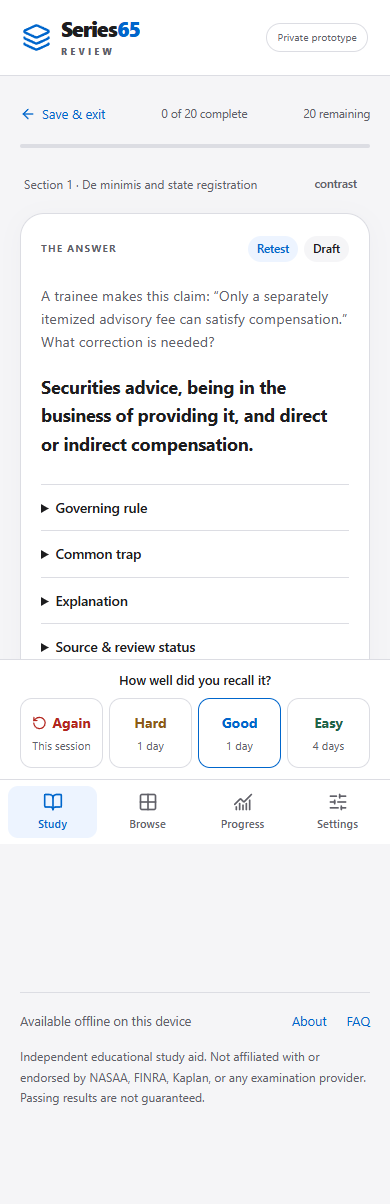
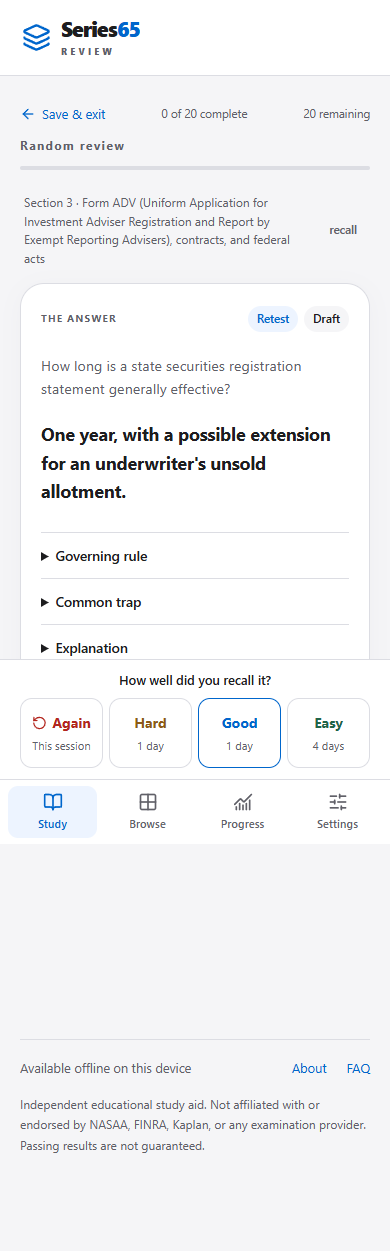
Simplify Study to one area or random selector and move analytics to Progress

diff --git a/tests/e2e/app.spec.ts b/tests/e2e/app.spec.ts
@@ -1,18 +1,18 @@
 import { test,expect,type Page } from '@playwright/test';
 import AxeBuilder from '@axe-core/playwright';
 import { readFile,mkdir } from 'node:fs/promises';
-async function ready(page:Page){await page.goto('/');await expect(page.getByRole('button',{name:'Start a session'})).toBeVisible();}
+async function ready(page:Page){await page.goto('/');await expect(page.getByRole('button',{name:'Start review'})).toBeVisible();}
 async function reveal(page:Page){await page.getByRole('button',{name:'Reveal answer',exact:true}).click();await expect(page.getByRole('heading',{level:1})).toBeVisible();}
 test('review, deliberate relearning, bookmarks, and refresh persistence',async({page})=>{
- await ready(page);await page.getByRole('button',{name:'Start a session'}).click();const question=await page.locator('.question-button>span').innerText();await reveal(page);await page.getByRole('button',{name:'Bookmark card',exact:true}).click();await page.getByRole('button',{name:/^Again/}).click();
+ await ready(page);await page.getByRole('button',{name:'Start review'}).click();const question=await page.locator('.question-button>span').innerText();await reveal(page);await page.getByRole('button',{name:'Bookmark card',exact:true}).click();await page.getByRole('button',{name:/^Again/}).click();
  for(let i=0;i<2;i++){await reveal(page);await page.getByRole('button',{name:/^Good/}).click();}
- await expect(page.locator('.question-button>span')).toHaveText(question);await expect(page.getByRole('button',{name:'Remove bookmark'})).toBeVisible();await reveal(page);await page.getByRole('button',{name:/^Easy/}).click();const next=await page.locator('.question-button>span').innerText();await page.reload();await expect(page.locator('.question-button>span')).toHaveText(next);await page.getByRole('link',{name:'Save & exit'}).click();await expect(page.getByRole('button',{name:'Continue session'})).toBeVisible();
+ await expect(page.locator('.question-button>span')).toHaveText(question);await expect(page.getByRole('button',{name:'Remove bookmark'})).toBeVisible();await reveal(page);await page.getByRole('button',{name:/^Easy/}).click();const next=await page.locator('.question-button>span').innerText();await page.reload();await expect(page.locator('.question-button>span')).toHaveText(next);await page.getByRole('link',{name:'Save & exit'}).click();await expect(page.getByRole('button',{name:'Continue review'})).toBeVisible();
 });
 test('browse filters, bookmark, suspension and issue reporting',async({page})=>{
  await ready(page);await page.getByRole('link',{name:'Browse',exact:true}).click();await page.getByRole('combobox',{name:'Card type',exact:true}).selectOption('calculation');await expect(page.locator('.browse-card').first()).toContainText('calculation');await page.getByRole('combobox',{name:'Section',exact:true}).selectOption('21');await expect(page.locator('.result-count')).toContainText('3 cards found');await page.locator('.browse-card>summary').first().click();await page.getByRole('button',{name:'Bookmark card',exact:true}).first().click();await page.getByLabel('Bookmarked',{exact:true}).check();await expect(page.locator('.result-count')).toContainText('1 cards found');await page.getByRole('button',{name:'Report content issue'}).click();await page.getByLabel('What needs checking?').fill('Please verify the tax assumptions before release.');await page.getByRole('button',{name:'Save issue'}).click();await expect(page.getByRole('status').filter({hasText:'Issue saved'})).toBeVisible();await page.getByRole('button',{name:'Suspend card'}).click();await page.getByRole('combobox',{name:'Due status',exact:true}).selectOption('suspended');await expect(page.locator('.result-count')).toContainText('1 cards found');
 });
 test('settings, export/import, invalid import rejection and reset',async({page})=>{
- await ready(page);await page.getByRole('button',{name:'Start a session'}).click();await reveal(page);await page.getByRole('button',{name:/^Good/}).click();await page.getByRole('link',{name:'Settings',exact:true}).click();await page.getByLabel('New cards per day').fill('8');await page.getByLabel('Appearance').selectOption('dark');await page.getByRole('button',{name:'Save settings'}).click();await expect(page.locator('html')).toHaveAttribute('data-theme','dark');await page.reload();await expect(page.getByLabel('New cards per day')).toHaveValue('8');
+ await ready(page);await page.getByRole('button',{name:'Start review'}).click();await reveal(page);await page.getByRole('button',{name:/^Good/}).click();await page.getByRole('link',{name:'Settings',exact:true}).click();await page.getByLabel('New cards per day').fill('8');await page.getByLabel('Appearance').selectOption('dark');await page.getByRole('button',{name:'Save settings'}).click();await expect(page.locator('html')).toHaveAttribute('data-theme','dark');await page.reload();await expect(page.getByLabel('New cards per day')).toHaveValue('8');
  await page.getByLabel('Import progress file').setInputFiles({name:'bad.json',mimeType:'application/json',buffer:Buffer.from('{"app":"wrong"}')});await expect(page.locator('.inline-error')).toContainText('not a valid');
  const downloadPromise=page.waitForEvent('download');await page.getByRole('button',{name:'Export JSON'}).click();const download=await downloadPromise;const saved=await readFile((await download.path())!);const json=JSON.parse(saved.toString());expect(json.data.events).toHaveLength(1);
  await page.getByRole('button',{name:'Reset all progress & settings'}).click();await page.getByRole('button',{name:'Cancel',exact:true}).click();await expect(page.getByLabel('New cards per day')).toHaveValue('8');await page.getByRole('button',{name:'Reset all progress & settings'}).click();await page.getByRole('button',{name:'Confirm reset'}).click();await expect(page.getByLabel('New cards per day')).toHaveValue('20');await page.getByLabel('Import progress file').setInputFiles({name:'backup.json',mimeType:'application/json',buffer:saved});await page.getByRole('button',{name:'Replace progress'}).click();await expect(page.getByLabel('New cards per day')).toHaveValue('8');await page.getByRole('link',{name:'Progress',exact:true}).click();await expect(page.locator('.progress-stats')).toContainText('100%');
@@ -21,7 +21,7 @@ test('first-load precache permits unvisited routes and saved reviews offline',as
  await ready(page);await expect(page.getByText('Available offline on this device')).toBeVisible();await page.evaluate(async()=>{await navigator.serviceWorker.ready;if(!navigator.serviceWorker.controller)await new Promise<void>(resolve=>navigator.serviceWorker.addEventListener('controllerchange',()=>resolve(),{once:true}));});await context.setOffline(true);await page.goto('/browse/');await expect(page.getByRole('heading',{name:'Find the rule you need.'})).toBeVisible();await page.goto('/review/');await page.getByRole('button',{name:'Start review',exact:true}).click();await reveal(page);await page.getByRole('button',{name:/^Good/}).click();const next=await page.locator('.question-button>span').innerText();await page.reload();await expect(page.locator('.question-button>span')).toHaveText(next);await page.getByRole('link',{name:'Progress',exact:true}).click();await expect(page.locator('.progress-stats')).toContainText('100%');
 });
 test('keyboard review shortcuts work without intercepting form input',async({page})=>{
- await ready(page);await page.getByRole('button',{name:'Start a session'}).click();await page.locator('body').click({position:{x:2,y:150}});await page.keyboard.press('Space');await expect(page.locator('.answer-text')).toBeVisible();await page.keyboard.press('3');await expect(page.locator('.question-button')).toBeVisible();
+ await ready(page);await page.getByRole('button',{name:'Start review'}).click();await page.locator('body').click({position:{x:2,y:150}});await page.keyboard.press('Space');await expect(page.locator('.answer-text')).toBeVisible();await page.keyboard.press('3');await expect(page.locator('.question-button')).toBeVisible();
 });
 test('phone and desktop layouts, dark theme, reduced motion, and accessibility',async({page})=>{
  await mkdir('test-results/visual',{recursive:true});
@@ -31,7 +31,7 @@ test('phone and desktop layouts, dark theme, reduced motion, and accessibility',
   const report=await new AxeBuilder({page}).withTags(['wcag2a','wcag2aa','wcag21aa']).analyze();expect(report.violations).toEqual([]);
   expect(await page.evaluate(()=>document.documentElement.scrollWidth<=innerWidth)).toBe(true);
  }
- await page.getByRole('button',{name:'Start a session'}).click();await page.setViewportSize({width:390,height:844});await page.screenshot({path:'test-results/visual/review-phone.png',fullPage:true});await reveal(page);await page.screenshot({path:'test-results/visual/answer-phone.png',fullPage:true});expect((await new AxeBuilder({page}).withTags(['wcag2a','wcag2aa','wcag21aa']).analyze()).violations).toEqual([]);
+ await page.getByRole('button',{name:'Start review'}).click();await page.setViewportSize({width:390,height:844});await page.screenshot({path:'test-results/visual/review-phone.png',fullPage:true});await reveal(page);await page.screenshot({path:'test-results/visual/answer-phone.png',fullPage:true});expect((await new AxeBuilder({page}).withTags(['wcag2a','wcag2aa','wcag21aa']).analyze()).violations).toEqual([]);
  for(const route of ['/browse/','/settings/','/progress/','/about/','/faq/']){await page.goto(route);await expect(page.locator('h1')).toBeVisible();expect((await new AxeBuilder({page}).withTags(['wcag2a','wcag2aa','wcag21aa']).analyze()).violations).toEqual([]);expect(await page.evaluate(()=>document.documentElement.scrollWidth<=innerWidth)).toBe(true);}
  await page.goto('/settings/');await page.getByLabel('Appearance').selectOption('dark');await page.getByRole('button',{name:'Save settings'}).click();await page.emulateMedia({reducedMotion:'reduce'});await page.goto('/');await expect(page.locator('html')).toHaveAttribute('data-theme','dark');await page.screenshot({path:'test-results/visual/dark-phone.png',fullPage:true});expect((await new AxeBuilder({page}).withTags(['wcag2a','wcag2aa','wcag21aa']).analyze()).violations).toEqual([]);
 });

diff --git a/components/dashboard.tsx b/components/dashboard.tsx
@@ -1,22 +1,37 @@
-'use client';
+'use client';
+import { useState } from 'react';
 import { useRouter } from 'next/navigation';
-import Link from 'next/link';
-import { ArrowRight,Flame,RotateCcw,Check } from 'lucide-react';
 import { useStudy } from './study-provider';
-import { deck,sections } from '@/lib/deck';
 import { categories, type Category } from '@/lib/model';
-import { statistics,currentStreak } from '@/lib/metrics';
-export function Dashboard(){
-  const {data,now,busy,dispatch}=useStudy();const router=useRouter();
-  if(!data)return <div className="page loading" role="status"><h1>Your next study session.</h1><p>Opening your local progress…</p></div>;
-  const stats=statistics(deck,data,now);const retest=statistics(deck.filter(c=>c.retest),data,now);
-  const weak=sections.map(s=>({...s,...statistics(deck.filter(c=>c.section===s.number),data,now)})).filter(s=>s.reviews>0).sort((a,b)=>(a.accuracy??100)-(b.accuracy??100)||b.lapses-a.lapses).slice(0,4);
-  const start=async(retestOnly=false,section?:number)=>{if(await dispatch({type:'start',now:new Date().toISOString(),retestOnly,section}))router.push('/review/');};
-  return <div className="page dashboard"><div className="page-heading"><div><p className="eyebrow">A LITTLE PRACTICE, EVERY DAY</p><h1>Keep the rules clear.</h1><p className="muted">Your focused Series 65 review, one card at a time.</p></div><span className="streak-chip"><Flame aria-hidden="true"/>{currentStreak(data,now)} day streak</span></div>
-    <div className="study-overview"><section className="today-card" aria-labelledby="today-title"><div className="row"><span className="eyebrow" id="today-title">YOUR NEXT SESSION</span><span className="badge blue">Spaced repetition</span></div><div className="due-count">{stats.due}<span>cards due today</span></div><p className="muted">{stats.new} new cards ready when you are.</p><button className="button primary large" disabled={busy} onClick={()=>void start()}>{data.session?.queue.length?'Continue session':'Start a session'}<ArrowRight aria-hidden="true"/></button><p className="micro">Up to {data.settings.sessionLength} cards · {data.settings.dailyNew} new cards per day</p></section>
-    <aside className="session-side"><div className="mini-stat"><span className="icon-wrap"><Check aria-hidden="true"/></span><div><strong>{stats.mature}<span> / {deck.length}</span></strong><p>Mature cards</p><small>Review interval of 21+ days</small></div></div><div className="retest-card"><div className="row"><RotateCcw aria-hidden="true"/><span className="eyebrow">RETEST FOCUS</span></div><h2>{retest.due} due <span>· {retest.new} new</span></h2><p>Practice the distinctions most likely to need another pass.</p><button className="text-button" disabled={busy} onClick={()=>void start(true)}>Review retest cards<ArrowRight aria-hidden="true"/></button></div></aside></div>
-    <section className="section-block"><div className="section-heading"><h2>Your four study areas</h2><Link href="/progress/">View progress<ArrowRight aria-hidden="true"/></Link></div><div className="category-grid">{(Object.keys(categories) as Category[]).map((key,i)=>{const category=categories[key];const s=statistics(deck.filter(c=>c.category===key),data,now);return <Link href={`/browse/?category=${key}`} className={`category-card category-${key}`} key={key}><div className="row"><span className="category-number">0{i+1}</span><span className="muted">{category.weight}% of exam</span></div><h3>{category.title}</h3><div className="meter" role="progressbar" aria-label={`${category.title} mature cards`} aria-valuenow={s.mastery} aria-valuemin={0} aria-valuemax={100}><span style={{width:`${s.mastery}%`}}/></div><div className="row micro"><span>{s.mature} of {s.total} mature</span><strong>{s.mastery}%</strong></div></Link>;})}</div></section>
-    <section className="section-block"><div className="section-heading"><h2>{weak.length?'Worth another look':'Build your baseline'}</h2><span className="muted">{weak.length?'Your weakest reviewed sections':'27 cram-sheet sections'}</span></div><div className="section-list">{weak.length?weak.map(s=><button className="section-row" key={s.number} disabled={busy} onClick={()=>void start(false,s.number)}><span className="section-number">{String(s.number).padStart(2,'0')}</span><span>{s.title}<small>{s.reviews} reviews · {s.accuracy}% recalled</small></span><ArrowRight aria-hidden="true"/></button>):<div className="baseline"><p>Start with a short session. Your missed and difficult cards will guide what comes next.</p><Link href="/browse/" className="button secondary">Explore the deck</Link></div>}</div></section>
-    <p className="draft-note">Content preview · All {deck.length} cards are drafts awaiting human accuracy and provenance review. Study ratings are self-assessments, not an exam score.</p>
+
+export function Dashboard() {
+  const { data, busy, dispatch } = useStudy();
+  const router = useRouter();
+  const [selection, setSelection] = useState<Category | 'random' | null>(null);
+  if (!data) return <div className="page minimal-study" role="status"><h1>Opening your cards…</h1></div>;
+
+  const choice = selection ?? data.session?.category ?? 'random';
+  const canContinue = !!data.session?.queue.length && (data.session.category === choice || (choice === 'random' && data.session.mode === 'random' && !data.session.category));
+  const start = async () => {
+    const timestamp = new Date().toISOString();
+    const command = canContinue ? { type: 'start' as const, now: timestamp }
+      : choice === 'random' ? { type: 'start' as const, now: timestamp, mode: 'random' as const }
+      : { type: 'start' as const, now: timestamp, category: choice };
+    if (await dispatch(command)) router.push('/review/');
+  };
+
+  return <div className="page minimal-study">
+    <section className="study-form" aria-labelledby="study-title">
+      <h1 id="study-title">Let’s review.</h1>
+      <div className="review-choice">
+        <label htmlFor="review-area">Review area</label>
+        <select id="review-area" value={choice} disabled={busy} onChange={event => setSelection(event.target.value as Category | 'random')}>
+          <option value="random">Random</option>
+          {(Object.keys(categories) as Category[]).map(category => <option key={category} value={category}>{categories[category].title}</option>)}
+        </select>
+      </div>
+      <button className="button primary" disabled={busy} onClick={() => void start()}>{canContinue ? 'Continue review' : 'Start review'}</button>
+      <p className="micro muted">Up to {data.settings.sessionLength} cards. Your progress saves automatically.</p>
+    </section>
   </div>;
 }

diff --git a/components/review.tsx b/components/review.tsx
@@ -4,15 +4,16 @@ import Link from 'next/link';
 import { ArrowLeft,CheckCircle2,RotateCcw } from 'lucide-react';
 import { useStudy } from './study-provider';
 import { cardById } from '@/lib/deck';
-import type { Card,Rating } from '@/lib/model';
+import { categories,type Card,type Rating } from '@/lib/model';
 import { freshState,schedule } from '@/lib/scheduler';
 import { AnswerDetails,CardActions } from './card-actions';
+import { Dashboard } from './dashboard';
 const ratings:Rating[]=['again','hard','good','easy'];
 export function Review(){
-  const {data,busy,dispatch}=useStudy();
+  const {data}=useStudy();
   if(!data)return <div className="page loading" role="status">Opening your study session…</div>;
   const session=data.session;const card=session?.queue[0]?cardById.get(session.queue[0]):null;
-  if(!session)return <div className="page narrow empty-state"><h1>Ready for a short session?</h1><p>Due cards come first, followed by new cards within your daily limits.</p><button className="button primary" disabled={busy} onClick={()=>void dispatch({type:'start',now:new Date().toISOString()})}>Start review</button></div>;
+  if(!session)return <Dashboard/>;
   if(!card)return <div className="page narrow empty-state"><CheckCircle2 aria-hidden="true" className="finish-icon"/><p className="eyebrow">{session.ratings?'SESSION COMPLETE':'ALL CAUGHT UP FOR NOW'}</p><h1>{session.ratings?'A little clearer.':'Nothing ready in this session.'}</h1><p>{session.ratings?`${session.completed.length} cards completed · ${session.ratings} reviews saved.`:'Your daily limits may be reached, cards may be suspended, or the next review may be later. You can still browse the full deck.'}</p><div className="button-row"><Link className="button primary" href="/">Back to study</Link><Link className="button secondary" href="/browse/">Browse cards</Link></div></div>;
   return <ReviewCard key={`${session.id}:${session.ratings}:${card.id}`} card={card}/>;
 }
@@ -23,7 +24,7 @@ function ReviewCard({card}:{card:Card}){
   const rate=useCallback(async(rating:Rating)=>{if(!revealed||busy)return;await dispatch({type:'rate',cardId:card.id,sessionId:session.id,expectedRatings:session.ratings,rating,now:new Date().toISOString()});},[revealed,busy,dispatch,card.id,session.id,session.ratings]);
   useEffect(()=>{const handler=(e:KeyboardEvent)=>{const target=e.target as HTMLElement;if(target.closest('input,textarea,select,button,a,summary,dialog'))return;if((e.key===' '||e.key==='Enter')&&!revealed){e.preventDefault();setRevealed(true);}else if(revealed&&['1','2','3','4'].includes(e.key)){e.preventDefault();void rate(ratings[Number(e.key)-1]);}};window.addEventListener('keydown',handler);return()=>window.removeEventListener('keydown',handler);},[revealed,rate]);
   useEffect(()=>{if(revealed)answerRef.current?.focus();},[revealed]);
-  return <div className="page review-page"><div className="review-top"><Link href="/"><ArrowLeft aria-hidden="true"/>Save & exit</Link><span>{session.completed.length} of {session.initialCount} complete</span><span>{session.queue.length} remaining</span></div><div className="meter session-meter" role="progressbar" aria-label="Session completion" aria-valuenow={progress} aria-valuemin={0} aria-valuemax={100}><span style={{width:`${progress}%`}}/></div><div className="review-meta"><span>Section {card.section} · {card.sectionTitle}</span><span className="badge">{card.type}</span></div>
+  return <div className="page review-page"><div className="review-top"><Link href="/"><ArrowLeft aria-hidden="true"/>Save & exit</Link><span>{session.completed.length} of {session.initialCount} complete</span><span>{session.queue.length} remaining</span></div>{(session.mode==='random'||session.category)&&<p className="eyebrow session-mode">{session.mode==='random'?'Random review':categories[session.category!].title}</p>}<div className="meter session-meter" role="progressbar" aria-label="Session completion" aria-valuenow={progress} aria-valuemin={0} aria-valuemax={100}><span style={{width:`${progress}%`}}/></div><div className="review-meta"><span>Section {card.section} · {card.sectionTitle}</span><span className="badge">{card.type}</span></div>
     <section className={`flashcard ${revealed?'revealed':''}`} aria-label="Study card"><div className="flashcard-top"><span className="eyebrow">{revealed?'THE ANSWER':'TAKE A MOMENT TO RECALL'}</span><div>{card.retest&&<span className="badge blue">Retest</span>}<span className="badge">Draft</span></div></div>{!revealed?<button className="question-button" onClick={()=>setRevealed(true)} aria-label={`Reveal answer: ${card.front}`}><span>{card.front}</span><small>Tap to reveal the answer</small></button>:<div className="answer-body"><p className="question-reminder">{card.front}</p><h1 ref={answerRef} tabIndex={-1} className="answer-text">{card.answer}</h1><AnswerDetails card={card}/></div>}<CardActions card={card}/></section>
     <div className="sr-only" role="status" aria-live="polite">{revealed?'Answer revealed. Rate your recall with Again, Hard, Good, or Easy.':`Question ready. ${session.queue.length} cards remaining.`}</div>
     {revealed?<section className="rating-section" aria-label="Rate your recall"><p>How well did you recall it?</p><div className="rating-grid">{ratings.map((rating,i)=>{const next=schedule(data!.states[card.id]||freshState(card.id,now),rating,now);return <button key={rating} className={`rating ${rating}`} disabled={busy} onClick={()=>void rate(rating)}><span>{rating==='again'?<RotateCcw aria-hidden="true"/>:null}{rating[0].toUpperCase()+rating.slice(1)}</span><small>{rating==='again'?'This session':`${next.interval} day${next.interval===1?'':'s'}`}</small><kbd>{i+1}</kbd></button>;})}</div><p className="micro muted">Again repeats this card after up to two others. Ratings are saved immediately.</p></section>:<div className="reveal-area"><button className="button primary" onClick={()=>setRevealed(true)}>Reveal answer<span aria-hidden="true">↵</span></button><p className="micro muted">Keyboard: Space or Enter to reveal · 1–4 to rate</p></div>}

diff --git a/components/progress.tsx b/components/progress.tsx
@@ -4,11 +4,16 @@ import { useStudy } from './study-provider';
 import { deck,sections,cardById } from '@/lib/deck';
 import { statistics,activity,currentStreak } from '@/lib/metrics';
 import { BackupControls } from './backup-controls';
+import { categories, type Category } from '@/lib/model';
 export function Progress(){
   const {data,now}=useStudy();if(!data)return <div className="page" role="status">Opening progress…</div>;
   const stats=statistics(deck,data,now);const days=activity(data,now);const maximum=Math.max(1,...days.map(d=>d.count));
   const hardest=Object.values(data.states).filter(s=>s.lapses>0&&cardById.has(s.cardId)).sort((a,b)=>b.lapses-a.lapses||a.ease-b.ease).slice(0,5);
+  const retest=statistics(deck.filter(c=>c.retest),data,now);
+  const weak=sections.map(s=>({...s,...statistics(deck.filter(c=>c.section===s.number),data,now)})).filter(s=>s.reviews>0).sort((a,b)=>(a.accuracy??100)-(b.accuracy??100)||b.lapses-a.lapses).slice(0,4);
   return <div className="page"><div className="page-heading"><div><p className="eyebrow">EVERY REVIEW COUNTS</p><h1>See what is sticking.</h1><p className="muted">{currentStreak(data,now)} day streak · Activity and daily limits use UTC.</p></div></div><div className="progress-stats">{[{label:'Recalled',value:stats.accuracy===null?'—':`${stats.accuracy}%`},{label:'Reviews',value:stats.reviews},{label:'Mature',value:stats.mature},{label:'Learning',value:stats.learning},{label:'New',value:stats.new},{label:'Lapses',value:stats.lapses}].map(s=><div key={s.label}><strong>{s.value}</strong><span>{s.label}</span></div>)}</div><p className="micro muted metric-explanation">Recalled = Hard, Good, or Easy ratings ÷ all ratings. Mature = review interval of at least 21 days. {stats.suspended} suspended cards are excluded from active learning counts.</p><section className="settings-card"><div className="section-heading"><h2>The last seven days</h2><span className="muted">{days.reduce((sum,d)=>sum+d.count,0)} reviews</span></div><ol className="activity-chart" aria-label="Seven-day review activity">{days.map(d=><li key={d.day}><span className="activity-value">{d.count}</span><div className="activity-bar-area"><span style={{height:`${Math.max(3,d.count/maximum*100)}%`}}/></div><time dateTime={d.day}>{new Date(`${d.day}T12:00:00Z`).toLocaleDateString('en-US',{weekday:'short',timeZone:'UTC'})}</time><span className="sr-only">{d.day}: {d.count} reviews</span></li>)}</ol></section>
+    <section className="section-block"><div className="section-heading"><h2>Study areas</h2><span>{stats.due} due · {retest.due} retest due</span></div><div className="table-wrap"><table><caption className="sr-only">Mastery by study area</caption><thead><tr><th scope="col">Area</th><th scope="col">Mastery</th><th scope="col">Mature</th></tr></thead><tbody>{(Object.keys(categories) as Category[]).map(category=>{const s=statistics(deck.filter(c=>c.category===category),data,now);return <tr key={category}><th scope="row"><Link href={`/browse/?category=${category}`}>{categories[category].title}</Link></th><td>{s.mastery}%</td><td>{s.mature}/{s.total}</td></tr>;})}</tbody></table></div></section>
+    {weak.length>0&&<section className="section-block"><h2 className="spaced-heading">Weakest sections</h2><div className="section-list">{weak.map(s=><Link key={s.number} href={`/browse/?section=${s.number}`} className="section-row"><span>{s.title}<small>{s.accuracy}% recalled · {s.reviews} reviews</small></span></Link>)}</div></section>}
     <section className="section-block"><div className="section-heading"><h2>Section by section</h2><span className="muted">Self-rated recall</span></div><div className="table-wrap"><table><caption className="sr-only">Review accuracy and counts for every cram-sheet section</caption><thead><tr><th scope="col">Section</th><th scope="col">Recalled</th><th scope="col">Reviews</th><th scope="col">Mature</th></tr></thead><tbody>{sections.map(section=>{const s=statistics(deck.filter(c=>c.section===section.number),data,now);return <tr key={section.number}><th scope="row"><Link href={`/browse/?section=${section.number}`}>{section.number}. {section.title}</Link></th><td>{s.accuracy===null?'—':`${s.accuracy}%`}</td><td>{s.reviews}</td><td>{s.mature}/{s.total}</td></tr>;})}</tbody></table></div></section>
     <section className="section-block"><h2 className="spaced-heading">Hardest cards</h2><div className="section-list">{hardest.length?hardest.map(s=><div className="section-row" key={s.cardId}><span className="section-number">{s.lapses} lapses</span><span>{cardById.get(s.cardId)!.front}<small>{s.totalReviews} reviews · ease {s.ease.toFixed(2)}</small></span></div>):<p className="baseline muted">No recorded lapses yet. Cards you miss after their first review will appear here.</p>}</div></section><BackupControls/>
   </div>;

diff --git a/lib/engine.ts b/lib/engine.ts
@@ -1,24 +1,29 @@
-import type { Card, Rating, Settings, Snapshot, Session } from './model';
+import type { Card, Category, Rating, Settings, Snapshot, Session } from './model';
 import { emptySnapshot } from './model';
 import { freshState, isDue, schedule, utcDay } from './scheduler';
+import { shuffled } from './shuffle';
 export type Command =
-  | {type:'start'; now:string; section?:number; retestOnly?:boolean}
+  | {type:'start'; now:string; section?:number; retestOnly?:boolean; mode?:'random'; category?:Category}
   | {type:'rate'; cardId:string; rating:Rating; now:string; sessionId:string; expectedRatings?:number}
   | {type:'flag'; cardId:string; flag:'bookmarked'|'suspended'; value:boolean; now:string}
   | {type:'settings'; settings:Settings}
   | {type:'issue'; cardId:string; text:string; now:string}
   | {type:'reset'; scope:'deck'|'all'}
   | {type:'import'; data:Snapshot};
-export function makeSession(cards: Card[], state: Snapshot, now: Date, section?:number, retestOnly=false): Session {
+export function makeSession(cards: Card[], state: Snapshot, now: Date, section?:number, retestOnly=false, mode:'scheduled'|'random'='scheduled', category?:Category): Session {
   const today = state.events.filter(e=>utcDay(e.at)===utcDay(now));
   const newUsed = new Set(today.filter(e=>e.wasNew).map(e=>e.cardId)).size;
   const reviewUsed = new Set(today.filter(e=>!e.wasNew).map(e=>e.cardId)).size;
-  const available = cards.filter(c=>(!section || c.section===section) && (!retestOnly || c.retest) && !state.states[c.id]?.suspended);
+  const available = cards.filter(c=>(!section || c.section===section) && (!category || c.category===category) && (!retestOnly || c.retest) && !state.states[c.id]?.suspended);
   const rank = (a:Card,b:Card) => Number(b.retest)-Number(a.retest) || ({high:0,medium:1,low:2}[a.priority]-{high:0,medium:1,low:2}[b.priority]) || a.id.localeCompare(b.id);
   const due = available.filter(c=>isDue(state.states[c.id],now)).sort((a,b)=>Number(state.states[b.id].stage==='learning')-Number(state.states[a.id].stage==='learning') || state.states[b.id].lapses-state.states[a.id].lapses || rank(a,b));
   const fresh = available.filter(c=>!state.states[c.id]?.totalReviews).sort(rank);
-  const queue = [...due.slice(0,Math.max(0,state.settings.dailyReviews-reviewUsed)),...fresh.slice(0,Math.max(0,state.settings.dailyNew-newUsed))].slice(0,state.settings.sessionLength).map(c=>c.id);
-  return {id:now.toISOString(), startedAt:now.toISOString(), queue, completed:[], initialCount:queue.length, ratings:0};
+  const seed=(now.getTime() ^ state.revision) >>> 0;
+  const duePool=mode==='random'?shuffled(due,seed):due;
+  const newPool=mode==='random'?shuffled(fresh,seed+1):fresh;
+  const candidates=[...duePool.slice(0,Math.max(0,state.settings.dailyReviews-reviewUsed)),...newPool.slice(0,Math.max(0,state.settings.dailyNew-newUsed))];
+  const queue=(mode==='random'?shuffled(candidates,seed+2):candidates).slice(0,state.settings.sessionLength).map(c=>c.id);
+  return {id:now.toISOString(), mode, ...(category?{category}:{}), startedAt:now.toISOString(), queue, completed:[], initialCount:queue.length, ratings:0};
 }
 export function reduceSnapshot(state: Snapshot, command: Command, cards: Card[]): Snapshot {
   let next: Snapshot = {...state, states:{...state.states}};
@@ -26,8 +31,8 @@ export function reduceSnapshot(state: Snapshot, command: Command, cards: Card[])
   else if(command.type==='import') next = {...command.data,states:{...command.data.states}};
   else if(command.type==='settings') next.settings = command.settings;
   else if(command.type==='start') {
-    if(state.session?.queue.length && !command.section && !command.retestOnly) return state;
-    next.session = makeSession(cards, state, new Date(command.now),command.section,command.retestOnly);
+    if(state.session?.queue.length && !command.section && !command.retestOnly && !command.category && command.mode!=='random') return state;
+    next.session = makeSession(cards, state, new Date(command.now),command.section,command.retestOnly,command.mode,command.category);
   } else {
     if(!cards.some(c=>c.id===command.cardId)) throw new Error('This card is no longer in the current deck.');
     if(command.type==='issue') next.issues=[...state.issues,{cardId:command.cardId,text:command.text.trim(),at:command.now}];

diff --git a/tests/unit/random-review.test.ts b/tests/unit/random-review.test.ts
@@ -1,0 +1,57 @@
+import { describe, it, expect } from 'vitest';
+import { deck } from '../../lib/deck';
+import { categories, emptySnapshot, sessionSchema } from '../../lib/model';
+import { makeSession, reduceSnapshot } from '../../lib/engine';
+import { freshState } from '../../lib/scheduler';
+
+const now = new Date('2026-09-13T15:00:00Z');
+describe('random and area review', () => {
+  it('samples across the eligible deck before limiting and remains reproducible', () => {
+    const state = emptySnapshot();
+    const make = (at = now) => makeSession(deck, state, at, undefined, false, 'random');
+    const session = make();
+    expect(session.queue).toHaveLength(20);
+    expect(new Set(session.queue).size).toBe(20);
+    expect(new Set(session.queue.map(id => deck.find(c => c.id === id)!.section)).size).toBeGreaterThan(3);
+    expect(make().queue).toEqual(session.queue);
+    expect(make(new Date(now.getTime() + 1000)).queue).not.toEqual(session.queue);
+    expect(session.queue).not.toEqual(makeSession(deck, state, now).queue);
+  });
+
+  it('respects remaining daily limits, suspension, and future due dates', () => {
+    const state = emptySnapshot();
+    state.settings = { ...state.settings, dailyNew: 2, dailyReviews: 2, sessionLength: 10 };
+    for (const card of deck.slice(0, 3)) state.states[card.id] = { ...freshState(card.id, now), totalReviews: 1, stage: 'review', due: '2026-09-12T00:00:00Z' };
+    for (const card of [deck[3], deck[5]]) state.states[card.id] = { ...freshState(card.id, now), totalReviews: 1, stage: 'review', due: '2026-09-20T00:00:00Z' };
+    state.states[deck[4].id] = { ...freshState(deck[4].id, now), suspended: true };
+    state.events = [{ id: 'a', cardId: deck[0].id, at: now.toISOString(), rating: 'good', wasNew: false }, { id: 'b', cardId: deck[5].id, at: now.toISOString(), rating: 'good', wasNew: true }];
+    const session = makeSession(deck, state, now, undefined, false, 'random');
+    expect(session.queue).toHaveLength(2);
+    expect(session.queue.filter(id => state.states[id]?.totalReviews)).toHaveLength(1);
+    for (const card of deck.slice(3, 6)) expect(session.queue).not.toContain(card.id);
+    state.settings.dailyNew = 1; state.settings.dailyReviews = 1;
+    expect(makeSession(deck, state, now, undefined, false, 'random').queue).toEqual([]);
+  });
+
+  it('restricts every area selection to its category', () => {
+    for (const category of Object.keys(categories) as (keyof typeof categories)[]) {
+      const state = reduceSnapshot(emptySnapshot(), { type: 'start', now: now.toISOString(), category }, deck);
+      expect(state.session?.category).toBe(category);
+      expect(state.session!.queue.length).toBeGreaterThan(0);
+      expect(state.session!.queue.every(id => deck.find(c => c.id === id)?.category === category)).toBe(true);
+    }
+  });
+
+  it('keeps saved reviews when changing selection and resumes without reshuffling', () => {
+    let state = reduceSnapshot(emptySnapshot(), { type: 'start', now: now.toISOString(), mode: 'random' }, deck);
+    const id = state.session!.queue[0];
+    state = reduceSnapshot(state, { type: 'rate', now: now.toISOString(), cardId: id, sessionId: state.session!.id, rating: 'good' }, deck);
+    expect(reduceSnapshot(state, { type: 'start', now: new Date(now.getTime() + 1000).toISOString() }, deck)).toBe(state);
+    const changed = reduceSnapshot(state, { type: 'start', now: new Date(now.getTime() + 2000).toISOString(), category: 'economics' }, deck);
+    expect(changed.states[id]).toEqual(state.states[id]);
+    expect(changed.events).toEqual(state.events);
+    const legacy = { ...changed.session! };
+    delete legacy.mode; delete legacy.category;
+    expect(sessionSchema.safeParse(legacy).success).toBe(true);
+  });
+});

diff --git a/lib/site-info.ts b/lib/site-info.ts
@@ -8,7 +8,7 @@ export function pageMetadata(title:string,description:string,route:string):Metad
 export const faqItems=[
   {q:'What is Series 65 Review?',a:'Series 65 Review is a focused final-review flashcard prototype for people preparing for the Series 65 examination. It teaches a compact study outline through original recall, application, contrast, and calculation cards. It is a supplement to broader preparation, not a complete textbook or an official examination product.'},
   {q:'What subjects does the deck cover?',a:'The deck is organized into the four exam categories: laws and ethics, client investment recommendations and strategies, investment vehicles, and economics and business information. Its 27 source sections emphasize practical distinctions such as registration versus notice filing, ownership versus account control, and similar rules with different deadlines.'},
-  {q:'How does spaced repetition work?',a:'Reveal a card, then select Again, Hard, Good, or Easy. Again deliberately returns the card in the current session. Successful ratings schedule a later review, with longer intervals as recall improves. Due cards are selected before new cards, subject to the daily limits you choose.'},
+  {q:'How does spaced repetition work?',a:'Reveal a card, then select Again, Hard, Good, or Easy. Again deliberately returns the card in the current session. Successful ratings schedule a later review, with longer intervals as recall improves. Choose Random or one of the four study areas from the dropdown at the top of Study. Area sessions put due cards first; Random mixes eligible due and new cards. Both respect your daily limits.'},
   {q:'Can I study offline?',a:'Yes, in the production build after its initial download completes. Wait for “Available offline on this device” in the footer before disconnecting. Cards, app pages, and progress then remain available on that device. Offline storage can still be removed by the browser or device, so export a backup periodically.'},
   {q:'Where is my study progress stored?',a:'Progress is stored in IndexedDB in your current browser. This prototype has no account service or cloud synchronization. Refreshing preserves progress, but another browser or device does not automatically have it. Use Settings to export a JSON backup or import one you already saved.'},
   {q:'Are these official or recalled Series 65 exam questions?',a:'No. Prompts and examples were independently authored to teach rules from a local study outline. The importer does not read commercial question banks or recalled live examination questions. All cards remain drafts pending human provenance and subject-matter review.'},

diff --git a/tests/deployment/pages.spec.ts b/tests/deployment/pages.spec.ts
@@ -1,11 +1,37 @@
 import { test, expect } from '@playwright/test';
 const prefix = '/series65-flashcards-app';
 
+test('one dropdown selects random or an area and Continue keeps the saved card', async ({ page }) => {
+  await page.goto(`${prefix}/`);
+  const selector = page.getByRole('combobox', { name: 'Review area', exact: true });
+  await expect(selector).toHaveValue('random');
+  await expect(selector.locator('option')).toHaveCount(5);
+  await expect(page.getByRole('button', { name: 'Random review', exact: true })).toHaveCount(0);
+  await page.getByRole('button', { name: 'Start review', exact: true }).click();
+  await expect(page.locator('.session-mode')).toHaveText('Random review');
+  const question = await page.locator('.question-button>span').innerText();
+  await page.getByRole('link', { name: 'Save & exit' }).click();
+  await page.getByRole('button', { name: 'Continue review', exact: true }).click();
+  await expect(page.locator('.question-button>span')).toHaveText(question);
+  await page.getByRole('button', { name: 'Reveal answer', exact: true }).click();
+  await page.getByRole('button', { name: /^Good/ }).click();
+  await page.getByRole('link', { name: 'Save & exit' }).click();
+  await selector.selectOption('economics');
+  await page.getByRole('button', { name: 'Start review', exact: true }).click();
+  await expect(page.locator('.session-mode')).toHaveText('Economics & business');
+  const areaQuestion = await page.locator('.question-button>span').innerText();
+  await page.reload();
+  await expect(page.locator('.question-button>span')).toHaveText(areaQuestion);
+  await page.getByRole('link', { name: 'Save & exit' }).click();
+  await expect(selector).toHaveValue('economics');
+  await expect(page.getByRole('button', { name: 'Continue review', exact: true })).toBeVisible();
+});
+
 test('hosted phone navigation and refresh stay inside the project path', async ({ page }) => {
   const failures: string[] = [];
   page.on('pageerror', error => failures.push(error.message));
   await page.goto(`${prefix}/`);
-  await expect(page.getByRole('button', { name: 'Start a session' })).toBeVisible();
+  await expect(page.getByRole('button', { name: 'Start review' })).toBeVisible();
   await page.getByRole('link', { name: 'Browse', exact: true }).click();
   await expect(page).toHaveURL(new RegExp(`${prefix}/browse/`));
   await expect(page.getByRole('heading', { name: 'Find the rule you need.' })).toBeVisible();

diff --git a/app/workspace.css b/app/workspace.css
@@ -4,3 +4,5 @@
 @media(max-width:600px){.message{bottom:calc(88px + env(safe-area-inset-bottom));right:16px}}
 @media(max-width:600px){.review-page:has(.rating-section){padding-bottom:190px}.rating-section{position:fixed;bottom:calc(64px + env(safe-area-inset-bottom));left:0;right:0;z-index:40;background:var(--surface);border-top:1px solid var(--border);padding:10px 20px 12px;margin:0}.rating-section>p:first-child{font-size:.8rem;margin:0 0 8px}.rating-section>.micro{display:none}.rating{min-height:64px}.review-page:has(.rating-section)~*{scroll-margin-bottom:200px}}
 @media(max-width:600px){.filter-panel{padding:16px}.filter-grid{grid-template-columns:1fr 1fr;gap:14px 10px}.filter-grid label:first-child{grid-column:1/-1}.filter-bottom{gap:12px}.filter-bottom .text-button{margin-left:0}.browse-card>summary{padding:18px;font-size:.95rem}.browse-answer{padding:0 18px 14px}.settings-card{padding:22px 20px}.settings-fields{grid-template-columns:1fr;gap:20px}.data-buttons .button{flex:1;min-width:125px;font-size:.85rem;padding:10px}.reset-options{display:block}.reset-options button{display:flex;text-align:left}.progress-stats{gap:9px}.progress-stats>div{padding:15px 9px}.progress-stats strong{font-size:1.5rem}.activity-chart{gap:10px}.activity-bar-area{height:80px}th,td{padding:12px 10px;font-size:.78rem}tbody th{min-width:175px}thead th{font-size:.7rem}.prose .lead{font-size:1rem}.prose p{font-size:.95rem}.settings-card .section-heading{align-items:flex-start}}
+.review-choice{margin-bottom:22px;max-width:480px}.review-choice label{display:block;font-weight:650;font-size:.9rem;margin-bottom:8px}.review-choice select{min-height:50px}.section-row{color:var(--text)}.session-mode{margin-bottom:12px}
+.minimal-study{max-width:580px;padding-top:64px;min-height:62vh}.study-form{padding:32px;background:var(--surface);border:1px solid var(--border);border-radius:20px}.study-form h1{font-size:1.7rem;letter-spacing:-.6px;margin-bottom:26px}.study-form .review-choice{max-width:none;margin-bottom:22px}.study-form>.button{width:100%}.study-form>.micro{margin-top:16px;text-align:center}@media(max-width:600px){.minimal-study{padding-top:28px}.study-form{padding:24px}}

diff --git a/components/chrome.tsx b/components/chrome.tsx
@@ -5,5 +5,5 @@ import { BookOpen,Grid2X2,ChartNoAxesCombined,SlidersHorizontal,Layers } from 'l
 import { useStudy } from './study-provider';
 import { disclaimer } from '@/lib/site-info';
 const nav=[{href:'/',label:'Study',icon:BookOpen},{href:'/browse/',label:'Browse',icon:Grid2X2},{href:'/progress/',label:'Progress',icon:ChartNoAxesCombined},{href:'/settings/',label:'Settings',icon:SlidersHorizontal}];
-export function Header(){const pathname=usePathname();return <><a className="skip-link" href="#main">Skip to content</a><header className="site-header"><div className="header-inner"><Link href="/" className="brand" aria-label="Series 65 Review home"><Layers aria-hidden="true"/><span>Series<span className="brand-accent">65</span><small>REVIEW</small></span></Link><nav aria-label="Main navigation">{nav.map(({href,label,icon:Icon})=><Link key={href} href={href} aria-current={pathname===href||pathname===href.slice(0,-1)||(href==='/'&&pathname==='/review/')?'page':undefined}><Icon aria-hidden="true"/><span>{label}</span></Link>)}</nav><span className="prototype-label">Study preview</span></div></header></>;}
+export function Header(){const pathname=usePathname();return <><a className="skip-link" href="#main">Skip to content</a><header className="site-header"><div className="header-inner"><Link href="/" className="brand" aria-label="Series 65 Review home"><Layers aria-hidden="true"/><span>Series<span className="brand-accent">65</span><small>REVIEW</small></span></Link><nav aria-label="Main navigation">{nav.map(({href,label,icon:Icon})=><Link key={href} href={href} aria-current={pathname===href||pathname===href.slice(0,-1)||(href==='/'&&pathname==='/review/')?'page':undefined}><Icon aria-hidden="true"/><span>{label}</span></Link>)}</nav></div></header></>;}
 export function Footer(){const {offlineReady}=useStudy();return <footer className="site-footer"><div className="footer-top"><span>{offlineReady?'Available offline on this device':'Progress stays on this device'}</span><div><Link href="/about/">About</Link><Link href="/faq/">FAQ</Link></div></div><p>{disclaimer}</p></footer>;}

diff --git a/lib/model.ts b/lib/model.ts
@@ -37,6 +37,8 @@ export type Settings = z.infer<typeof settingsSchema>;
 export const eventSchema = z.object({ id: z.string().max(200), cardId: safeId, at: iso, rating: ratingSchema, wasNew: z.boolean() });
 export type ReviewEvent = z.infer<typeof eventSchema>;
 export const sessionSchema = z.object({
+  mode: z.enum(['scheduled','random']).optional(), // Older saved sessions omit this field.
+  category: z.enum(['laws','recommendations','vehicles','economics']).optional(),
   id: z.string().max(200), startedAt: iso, queue: z.array(safeId).max(1000), completed: z.array(safeId).max(1000),
   initialCount: z.number().int().nonnegative().max(200), ratings: z.number().int().nonnegative(),
 });

diff --git a/lib/shuffle.ts b/lib/shuffle.ts
@@ -1,0 +1,16 @@
+/** Fisher-Yates with a seeded Mulberry32 generator, for reproducible session selection. */
+export function shuffled<T>(values: readonly T[], seed: number): T[] {
+  const result = [...values];
+  let state = seed >>> 0;
+  const next = () => {
+    state = (state + 0x6d2b79f5) >>> 0;
+    let value = Math.imul(state ^ (state >>> 15), 1 | state);
+    value ^= value + Math.imul(value ^ (value >>> 7), 61 | value);
+    return ((value ^ (value >>> 14)) >>> 0) / 4294967296;
+  };
+  for (let i = result.length - 1; i > 0; i--) {
+    const j = Math.floor(next() * (i + 1));
+    [result[i], result[j]] = [result[j], result[i]];
+  }
+  return result;
+}
